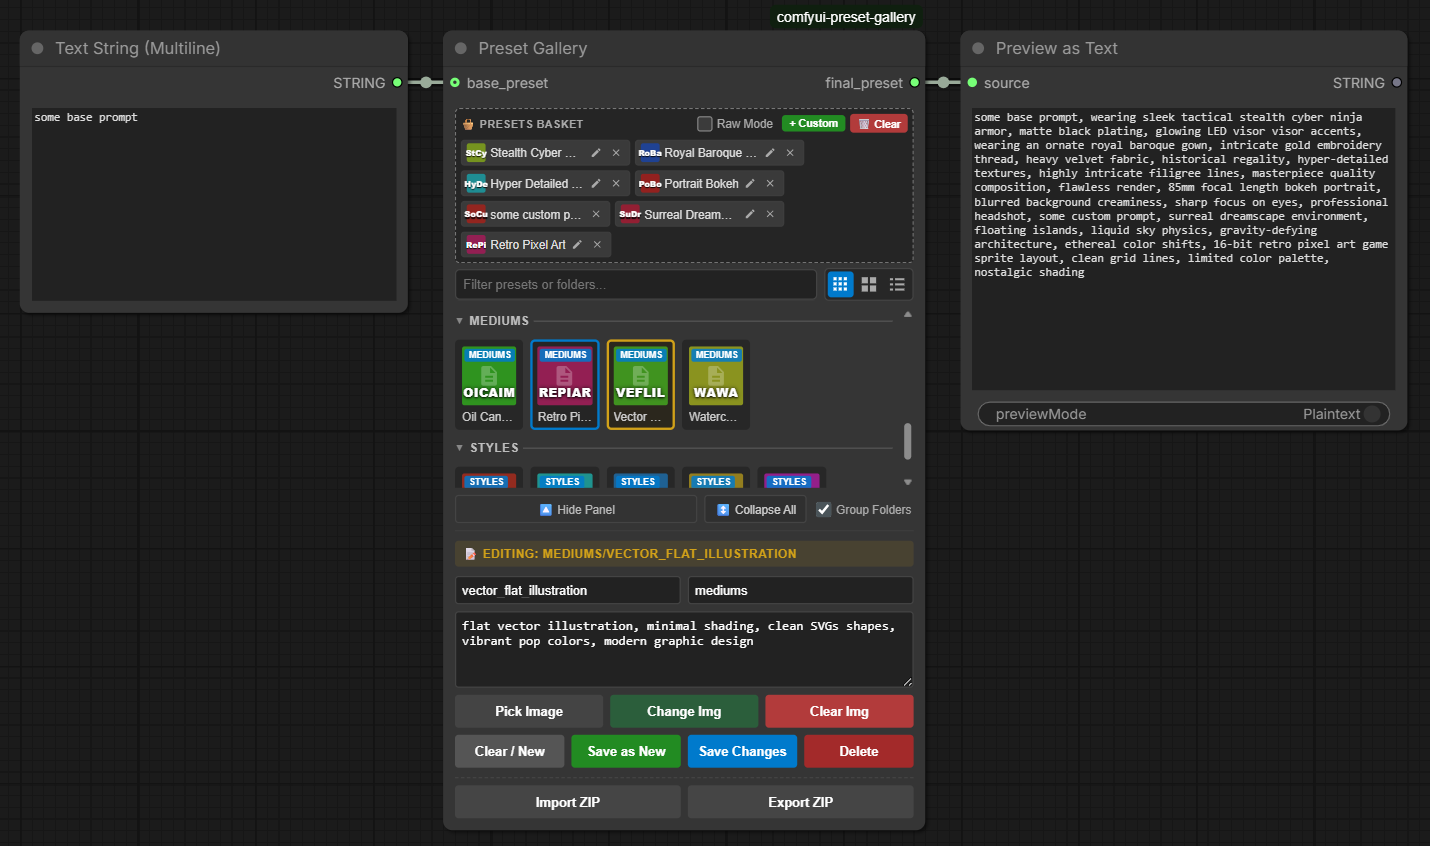
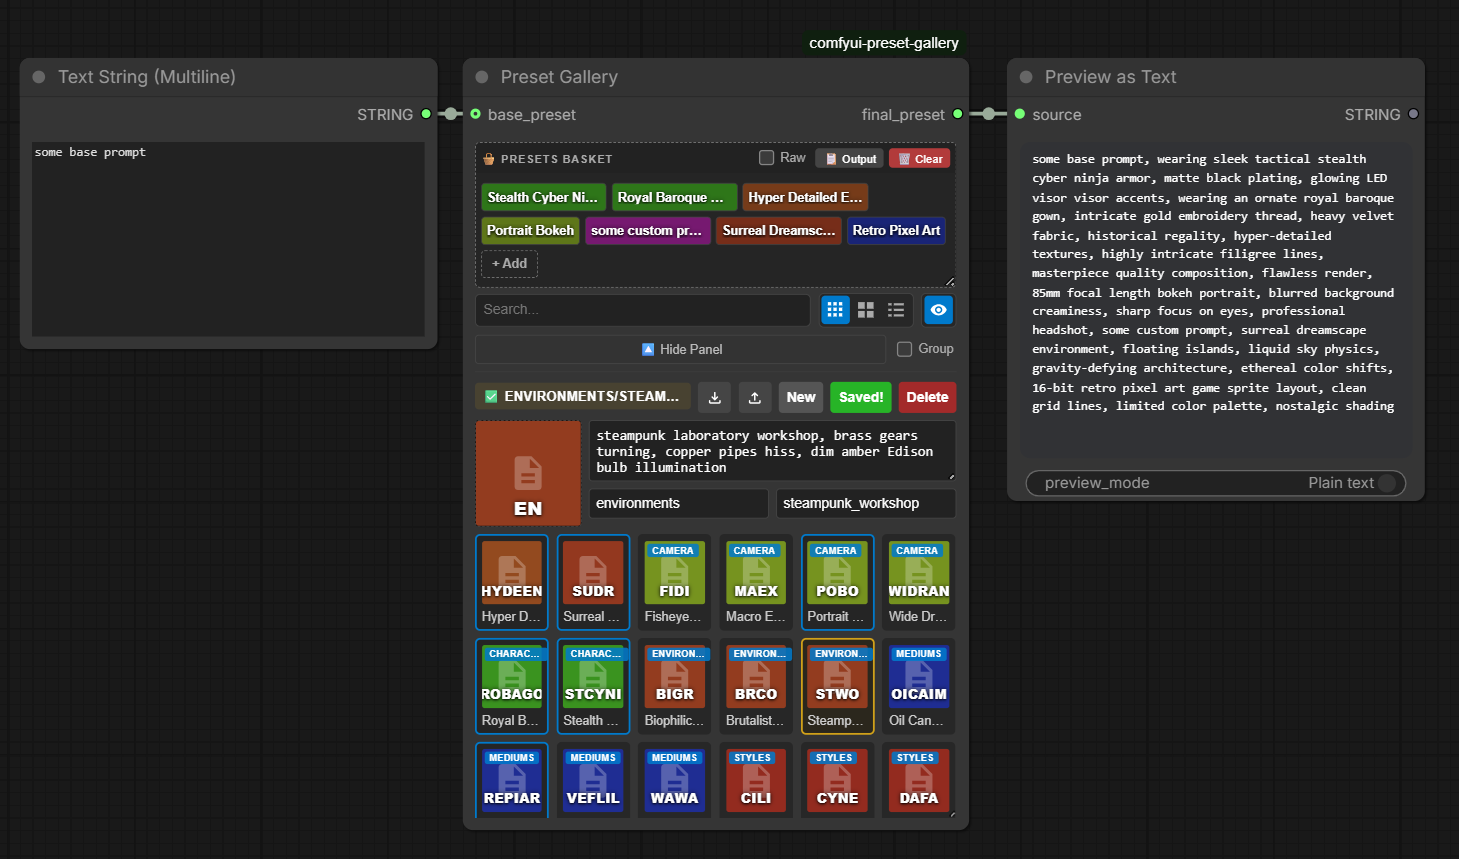
docs: update README

Changed region(s): [[0.0, 0.0, 0.9846, 0.9835], [0.0308, 0.1229, 0.0923, 0.1844]]

diff --git a/README.md b/README.md
@@ -2,6 +2,7 @@
 A sleek, visual extension for ComfyUI to save, organize, filter, and reuse your favorite prompt snippets and style templates using an interactive embedded grid.
 
 ![sample screenshot](sample.png)
+
 ## 🚀 Quick Start
 
 ### 1. Installation
@@ -24,48 +25,23 @@ Restart ComfyUI to load the extension.
 3. **Select Items:** Click any grid thumbnail to add it to the **Basket**. Click multiple items to concatenate them into a single prompt sequence.
 4. **Queue Prompt:** Run your generation; the combined string is sent right down the pipeline.
 
-
 ## Key Features
 
 ### 🧺 Interactive Presets Basket
 
 * **Drag-and-Drop:** Drag presets directly from the grid to arrange, sort, or insert them exactly where you want them inside your basket.
-* **Raw Mode & Auto-complete:** Toggle **Raw Mode** to edit your selection as raw comma-separated text. Includes an overlay auto-complete helper with fuzzy search matching.
-* **Custom Snippets:** Click **+ Custom** to inject temporary, one-time keywords into your selection pool without cluttering your permanent library.
+* **Raw Mode & Auto-complete:** Toggle **Raw Mode** to edit your selection as raw comma-separated text. Includes an overlay auto-complete helper with fuzzy search matching and syntax highlighting for better readability.
+* **Custom Snippets:** You can add one-time keywords into your selection pool without cluttering your library.
 
 ### 🔍 Live Grid Layouts & Filter Search
 
 * **Dynamic Views:** Toggle between small grids, large visual grids, or clean list views instantly.
-* **Live Search & Grouping:** Filter presets instantly by keyword, path, or tag. Keep things organized with mass-collapsible subfolder groups.
-* **Automatic Initials:** Items missing thumbnail images automatically generate color-coded cards with title initials.
+* **Live Search & Grouping:** Filter presets instantly by keyword, path, or tag. Keep things organized with subfolder groups.
 
 ### ⚙️ Management & Preset Editor
 
-Expand the **⚙️ Management Panel** at the bottom to curate your collection:
+Expand the **⚙️ Management Panel** to curate your collection:
 
-* **Save, Edit, Overwrite:** Create brand-new items or edit existing items on your grid to update text parameters or subfolders.
+* **Save, Edit, Overwrite:** Create brand‑new items or edit existing items on your grid to update text parameters or subfolders.
 * **Image Assets:** Add, replace, or erase reference cover artwork (`.jpg`, `.png`, `.webp`) for any preset entry.
-* **Portable Packages:** Import and export your entire asset tree via `.zip` archive backups for quick migrations.
-
-## Technical Details
-
-* **Node Class Name:** `PresetGalleryNode`
-* **Category:** `utils`
-* **Files Reference:** Frontend UI mutations and styles are orchestrated by `preset_gallery.js`, while the backend state, disk operations, and server endpoints are driven by `preset_gallery.py`.
-
-### Storage Architecture
-
-Your catalog data is stored as flat text configurations accompanied by image pairs inside the localized asset path:
-
-```text
-comfyui-preset-gallery/
-├── preset_gallery.py
-├── web/
-│   └── preset_gallery.js
-└── presets_pool/         # Managed library files
-    ├── explicit_style.txt
-    ├── explicit_style.jpg
-    └── characters/
-        ├── default_avatar.txt
-        └── default_avatar.png
-```
+* **Persistence:** Your preset pool is saved in browser `localStorage`, and you can import and export via `.yaml`, `.json` or `.zip` files.